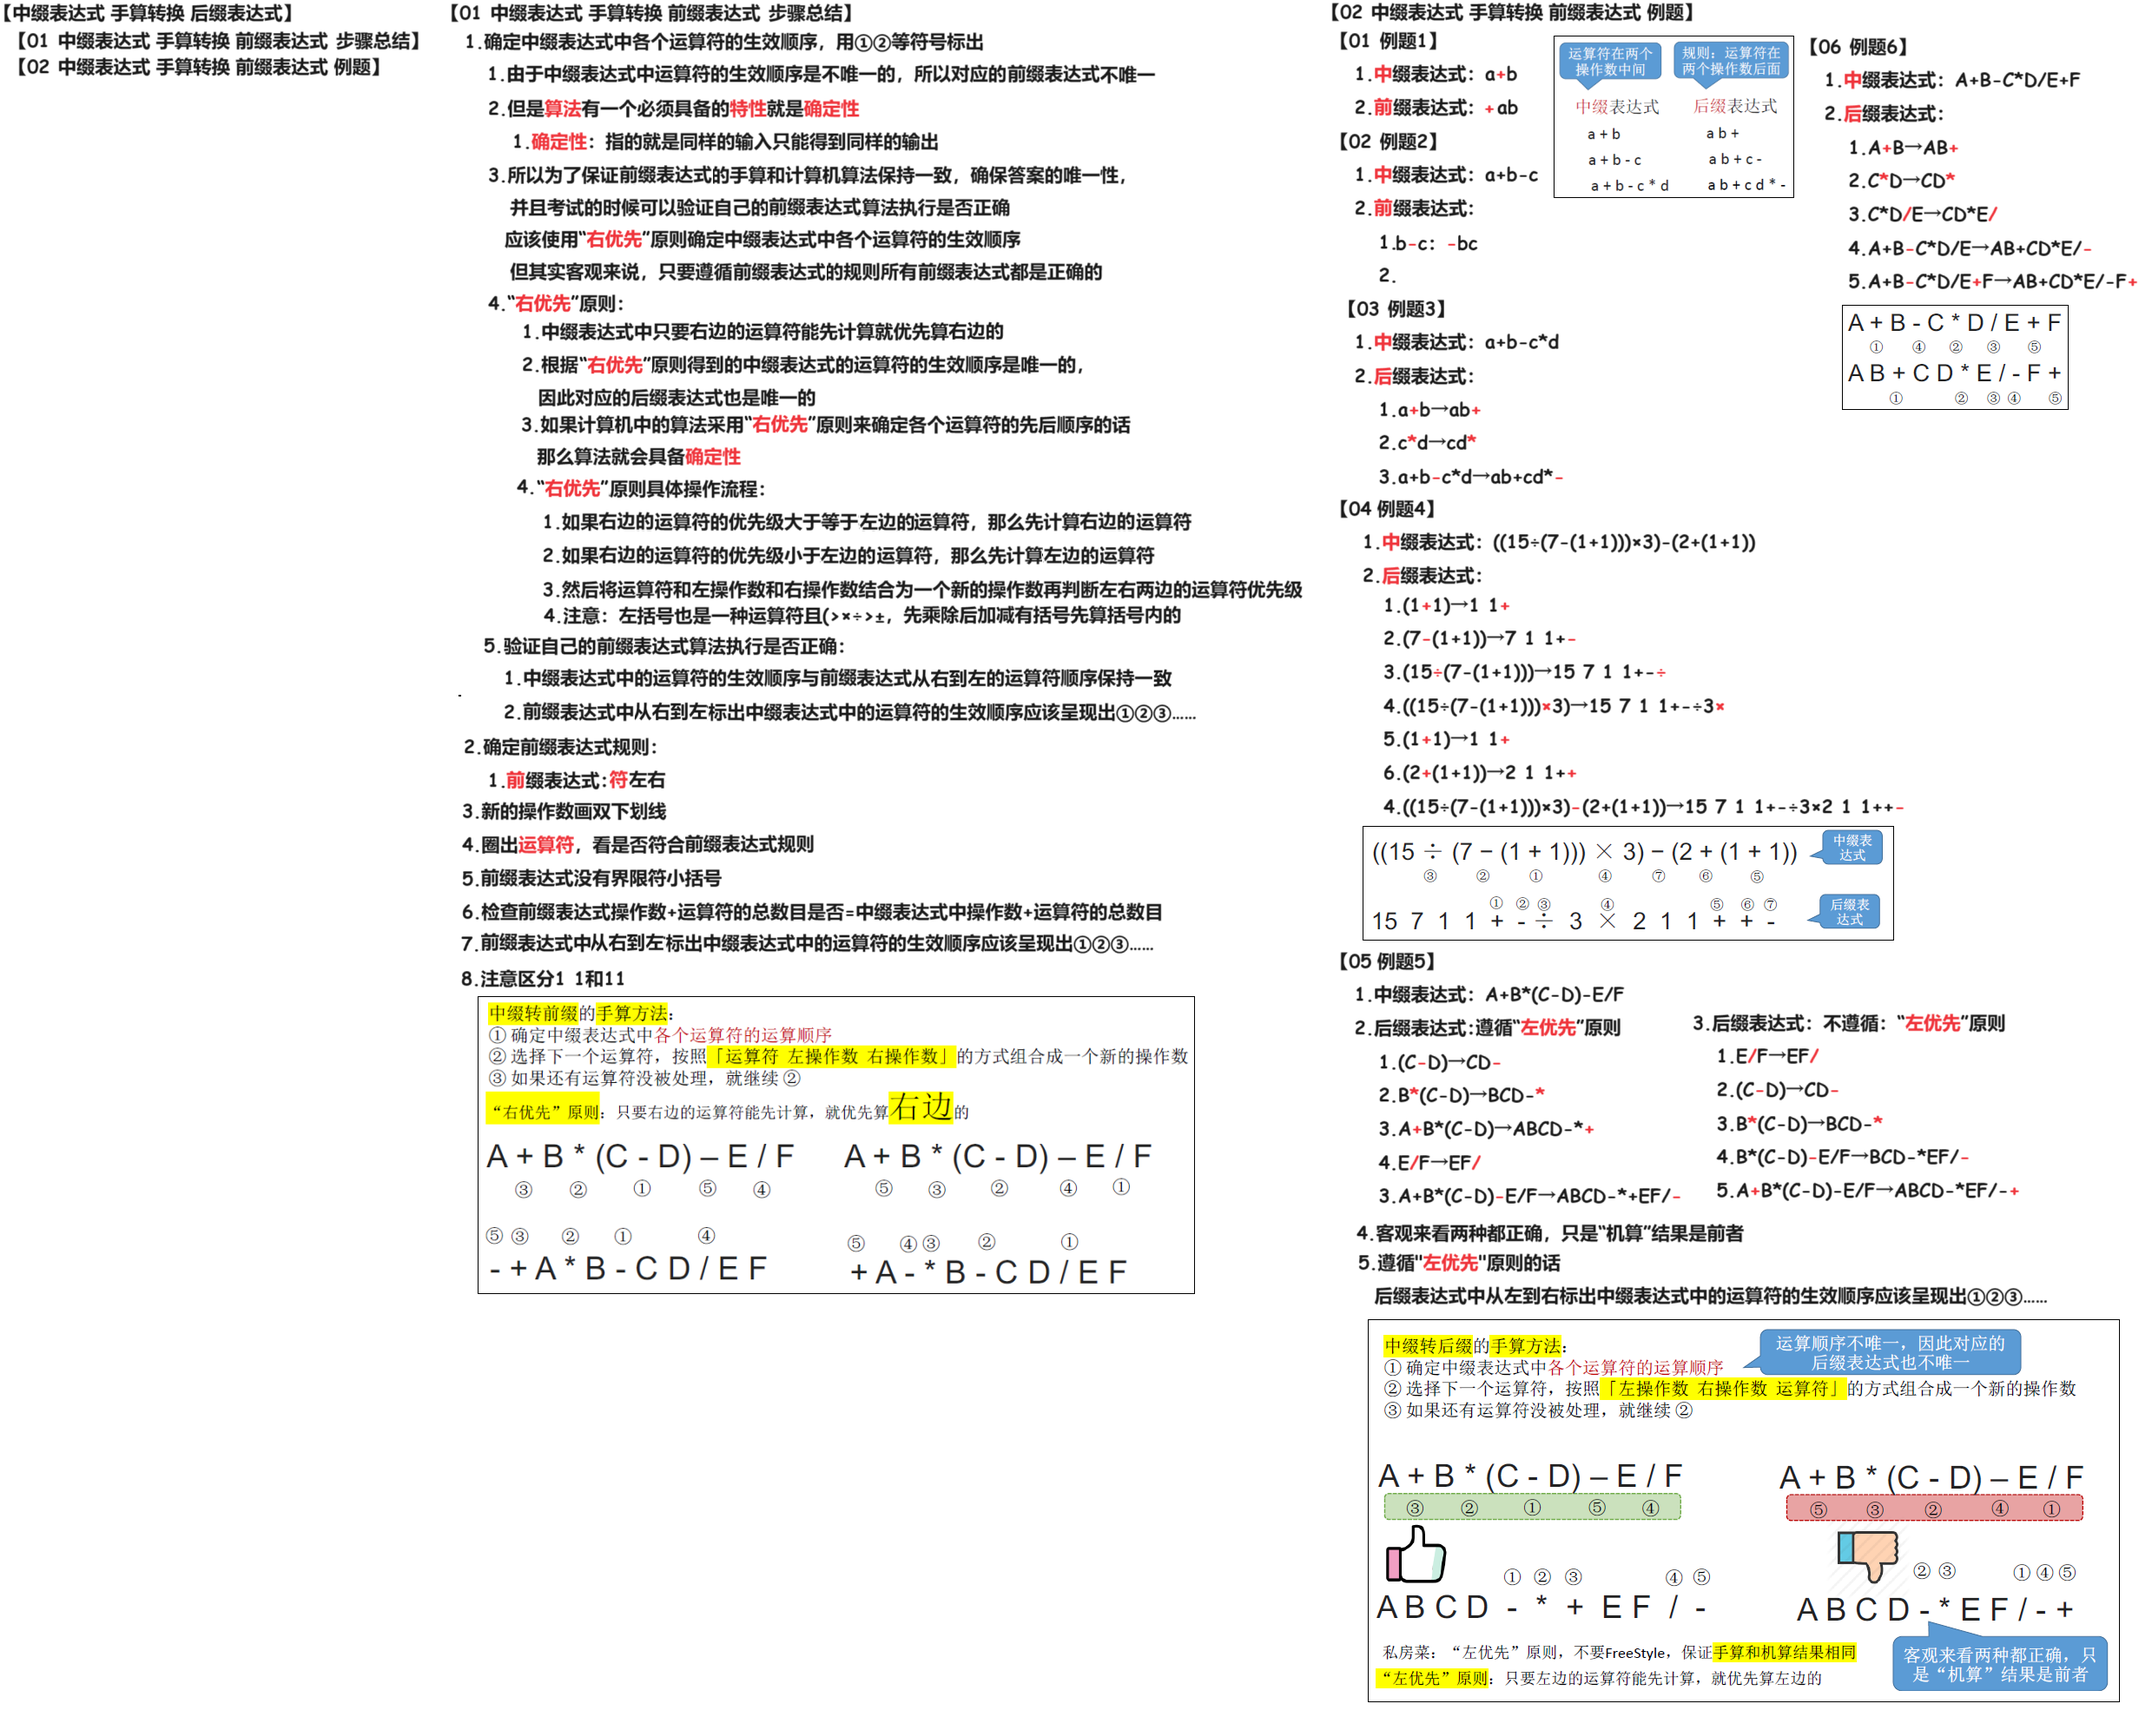
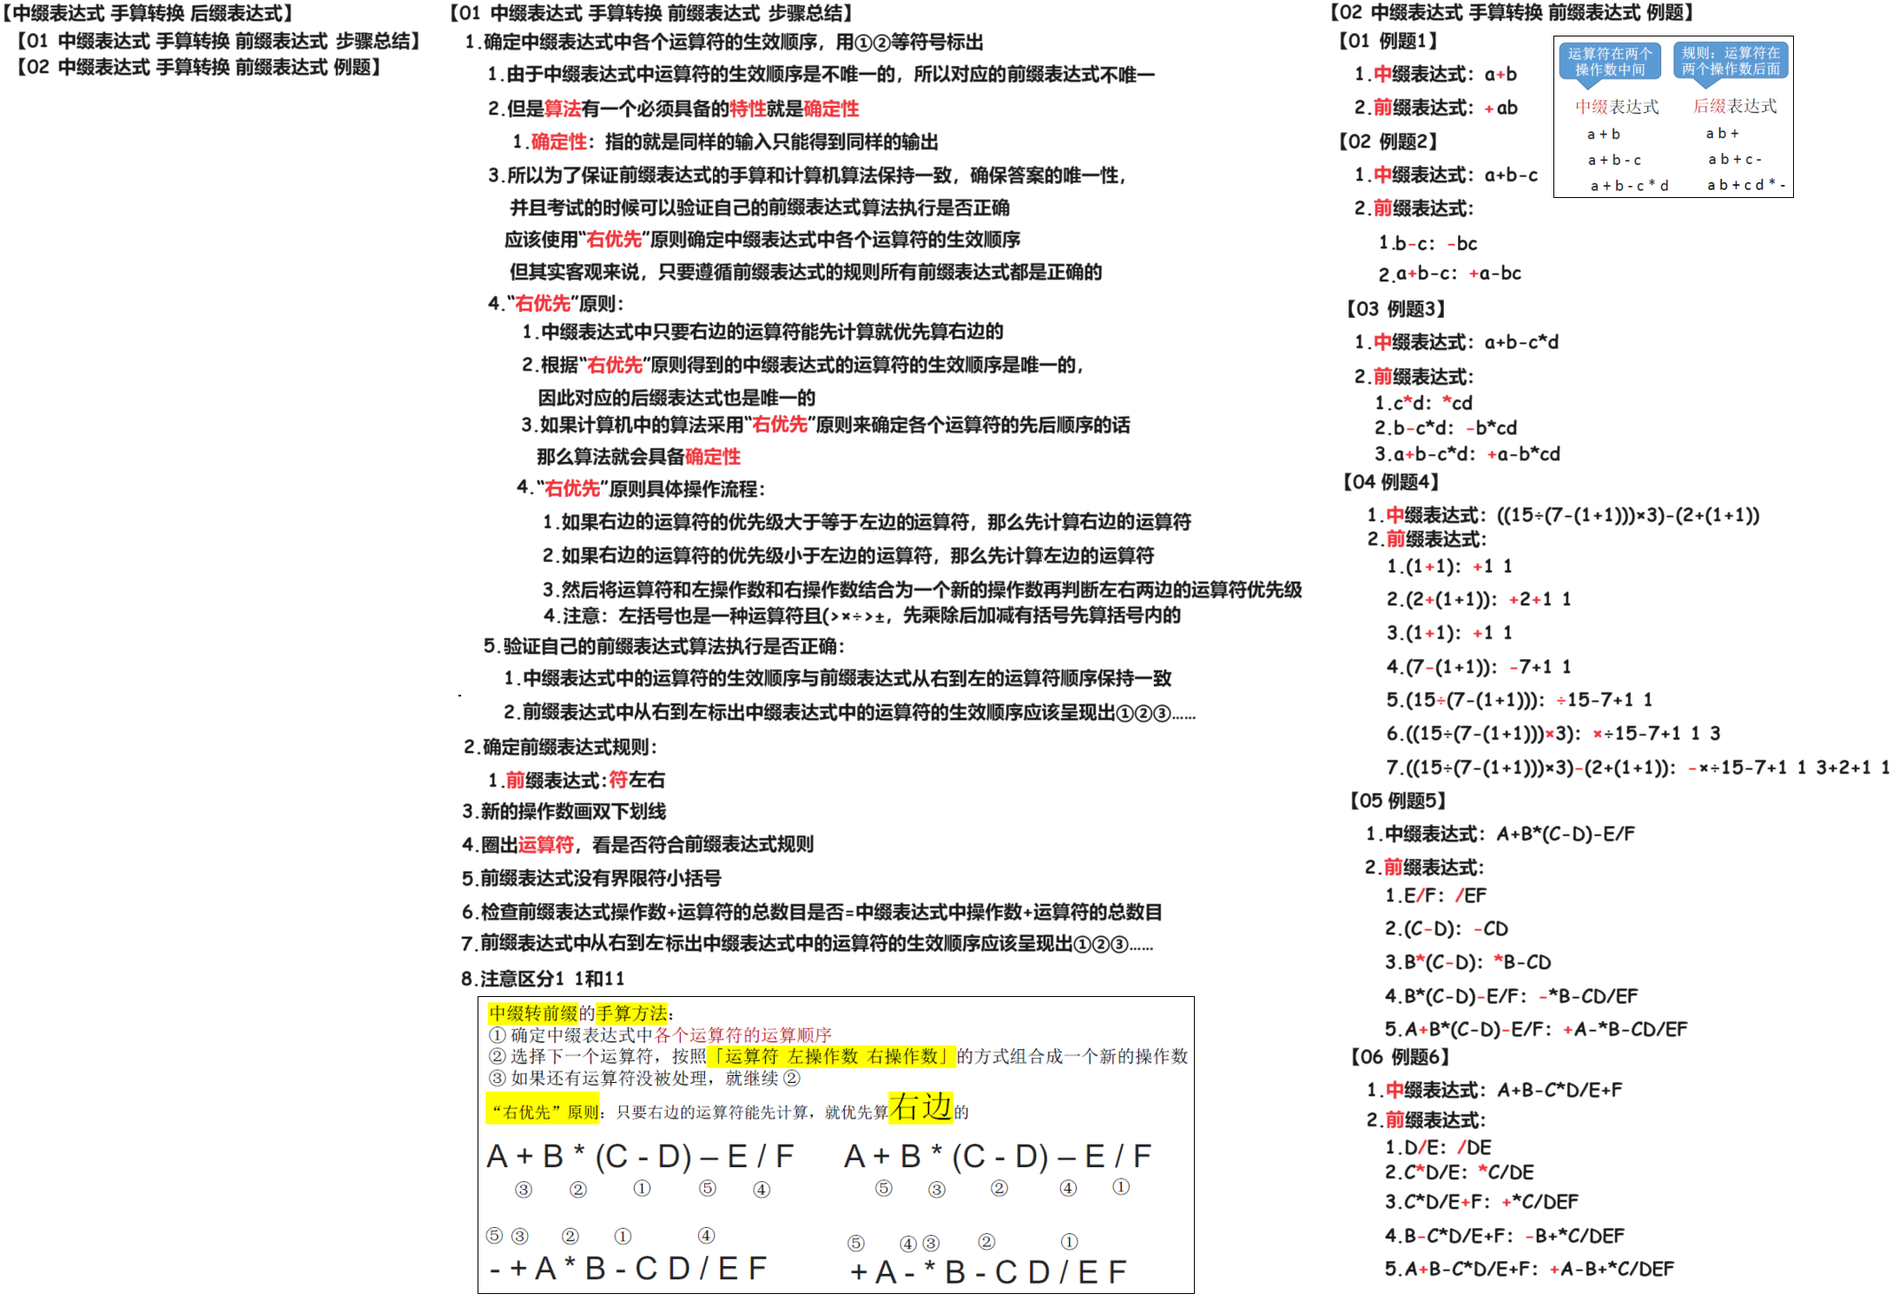
240317

diff --git a/01 初试/02 DS/01 题集/02 专题/07 栈的应用 表达式求值 240316/01 知识点/01 王道基础/02 Doc.md b/01 初试/02 DS/01 题集/02 专题/07 栈的应用 表达式求值 240316/01 知识点/01 王道基础/02 Doc.md
@@ -33,3 +33,7 @@
 <img src="https://cvp.oss-cn-shanghai.aliyuncs.com/picgo/202403171443760.png" alt="image-20240317144328389" style="zoom:50%;" />
 
 # 07 中缀表达式 手算转换 前缀表达式
+
+<img src="https://cvp.oss-cn-shanghai.aliyuncs.com/picgo/202403171552768.png" alt="image-20240317155240491" style="zoom:50%;" />
+
+# 08
